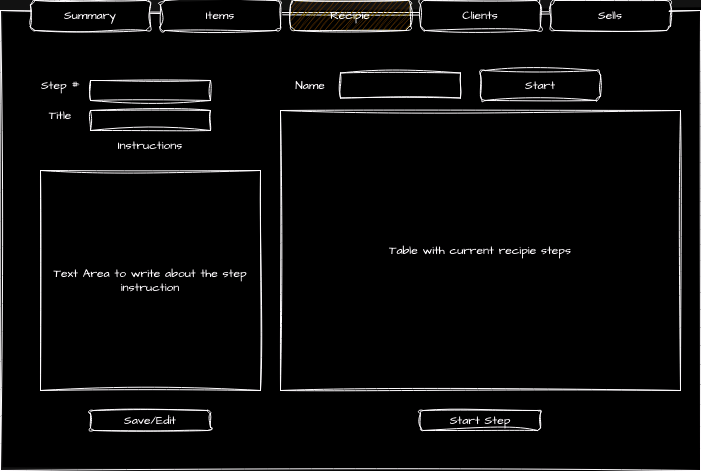
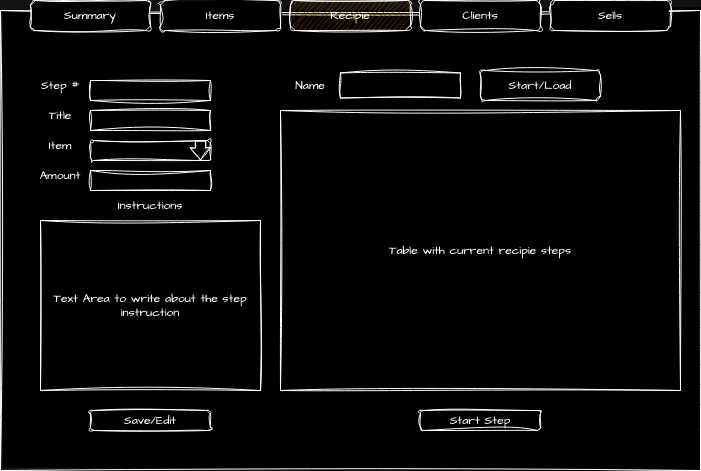
Some fixes.
* Fixed the DatabaseManager Descrutor. It was being called as well as
when we closed the Database on exiting the application.
* Fixed the wireframe for the Recipe. I added the items and the amount
needed for each step.
* Reflected the changes of the Recipe on the Template Database.

diff --git a/main.cpp b/main.cpp
@@ -20,7 +20,7 @@ int main(int argc, char *argv[])
             break;
         }
     }
-    // Connect the signal "about to close", and close the database
+    // Connect the signal "about to quit", and close the database
     QObject::connect(&a, &QCoreApplication::aboutToQuit, []() {
         DatabaseManager::instance().closeDatabase();
     });

diff --git a/databasemanager.cpp b/databasemanager.cpp
@@ -20,7 +20,7 @@ DatabaseManager::DatabaseManager() {
 }
 
 DatabaseManager::~DatabaseManager() {
-    closeDatabase();
+    // closeDatabase();
 }
 
 bool DatabaseManager::openDatabase() {
